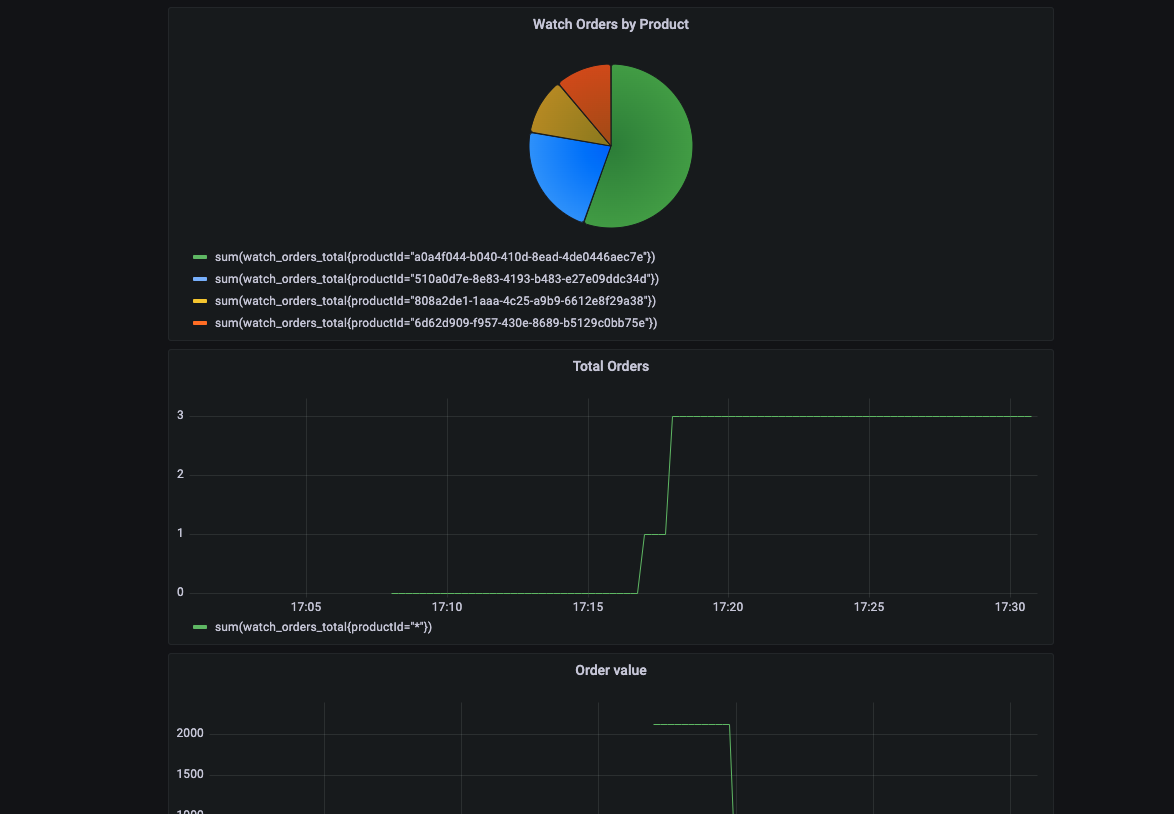
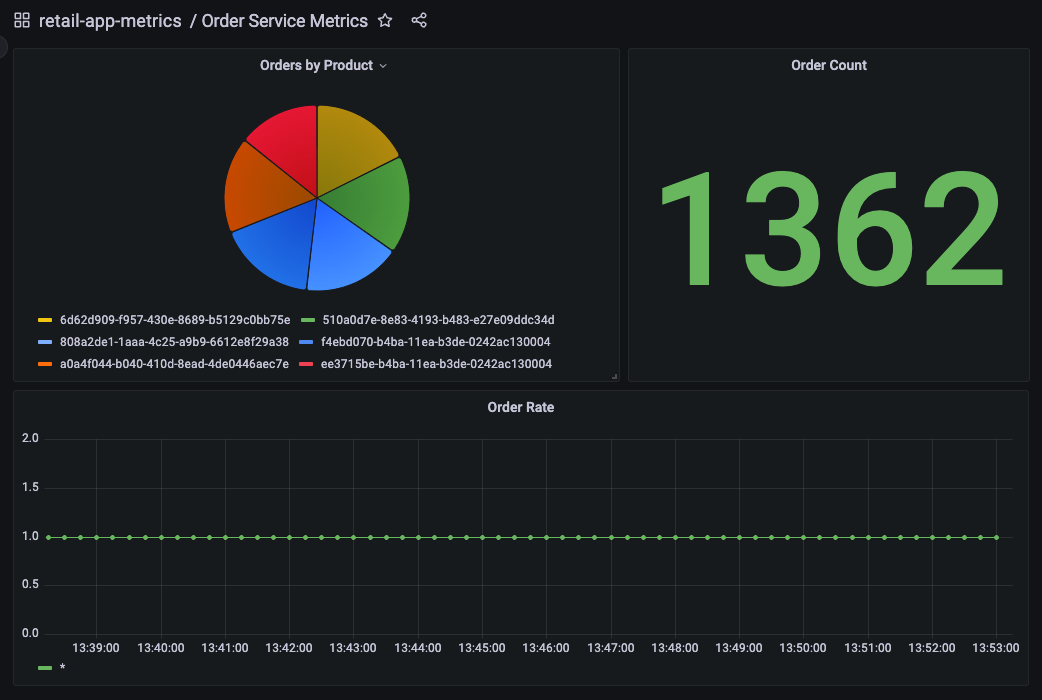
Slight restructure of content, remove order value dashboard

diff --git a/website/docs/observability/open-source-metrics/application-metrics.md b/website/docs/observability/open-source-metrics/application-metrics.md
@@ -3,24 +3,23 @@ title: "Application Metrics"
 sidebar_position: 50
 ---
 
-Application metrics are user defined metrics that help track your application KPIs. These metrics help analyze data and derive insights to meet your business needs. Let's look at some application metrics using AWS Distro for OpenTelemetry and visualize the metrics using Grafana.
+In this section we'll look at gaining insight in to metrics exposed by our workloads. Some examples of these could be:
 
-The application metrics we want to capture and show in the dashboard for the sample application are:
-- number of total orders created
-- most popular watch type order, based on number of each watch type ordered
-- total cost of each order
+* System metrics such as Java heap metrics or database connection pool status
+* Application metrics related to business KPIs
 
-The "retail-store-sample-app" has already been instrumented to capture the above mentioned metrics. The OrderMetrics class uses Spring Boot [Micrometer](https://spring.io/blog/2018/03/16/micrometer-spring-boot-2-s-new-application-metrics-collector) a metrics collection facade which collects metrics data from the application with a vendor neutral API. In the sample application we use [AWS Distro for OpenTelemetry (ADOT Collector)](https://aws-otel.github.io/) to instrument, generate, collect and export telemetry data (logs, traces and metrics). The OpenTelemetry Collector offers a vendor-agnostic implementation of how to receive, process and export telemetry data. It removes the need to run, operate, and maintain multiple agents/collectors.
+Let's look at how to ingest application metrics using AWS Distro for OpenTelemetry and visualize the metrics using Grafana.
 
-Take a look at the OpenTelementy collector configuration using below command. You will notice two main components - Receivers and Exporters
+Each of the components in this workshop have been instrumented to provide Prometheus metrics using libraries relevant to the particular programming language or framework. We can look at an example of these metrics from the orders service like so:
+
 ```bash
-$ kubectl -n other get opentelemetrycollector adot -o jsonpath='{.spec.config}'
-```
-
-**Receivers** - scrape metrics from targets that expose a Prometheus endpoint. Prometheus uses a pull based system to pull the application metrics exposed via an HTTP endoint at regular intervals. The retail-store-sample-app microservice exposes an endpoint **/actuator/prometheus** which is scarped to retrieve the application metrics. Each of the sample microservices expose a Prometheus endpoint making this a consistent metrics implementation.
-Use the curl command below to look at the application metrics for **watch_orders** that are exposed through the Prometheus endpoint.
-```bash
-$ kubectl -n orders exec $(kubectl -n orders get pods -o name) -- curl http://localhost:8080/actuator/prometheus | grep "watch_orders"
+$ kubectl -n orders exec deployment/orders -- curl http://localhost:8080/actuator/prometheus
+[...]
+# HELP jdbc_connections_idle Number of established but idle connections.
+# TYPE jdbc_connections_idle gauge
+jdbc_connections_idle{name="reader",} 10.0
+jdbc_connections_idle{name="writer",} 10.0
+[...]
 # HELP watch_orders_total The number of orders placed
 # TYPE watch_orders_total counter
 watch_orders_total{productId="510a0d7e-8e83-4193-b483-e27e09ddc34d",} 2.0
@@ -28,14 +27,80 @@ watch_orders_total{productId="808a2de1-1aaa-4c25-a9b9-6612e8f29a38",} 1.0
 watch_orders_total{productId="*",} 3.0
 watch_orders_total{productId="6d62d909-f957-430e-8689-b5129c0bb75e",} 1.0
 ```
-**Exporters** - send these application metrics to a Prometheus remote write endpoint which in our case is Amazon Managaed Prometheus.
 
-We will use Amazon Managed Grafana to visualize these application metrics collected in AMP. AMG has built-in support for Prometheus as datasource. Each datasource in Grafana has its query language to query the metrics data. [PromQL](https://prometheus.io/docs/prometheus/latest/querying/basics/) is the query language for Prometheus. Using the metrics key - 'watch_order_total' and the Query builder, we will build a query for retail-store-sample-app application to get the count of all orders of a certain productId as shown below![PromQL](./assets/query.png)
+The output from this command is verbose so the example above has been pruned to show:
 
-Now that we understand how the application metrics are generated, captured, and visualized, we will drive some traffic to see this in action. Use the below script to run load-generator to place watch orders to capture the application metrics.
+* System metric - How many JDBC connections are idle
+* Application metric - How many orders have been placed through the retail store
 
-```kubectl wait --for=condition=Ready --timeout=180s pods \
-cat <<'EOF' | kubectl apply -f -
+You can execute similar requests to other components, for example the checkout service:
+
+```bash
+$ kubectl -n checkout exec deployment/checkout -- curl http://localhost:8080/metrics
+[...]
+# HELP nodejs_heap_size_total_bytes Process heap size from Node.js in bytes.
+# TYPE nodejs_heap_size_total_bytes gauge
+nodejs_heap_size_total_bytes 48668672
+[...]
+```
+
+In this lab we'll leverage ADOT to ingest the metrics for all the components and explore a dashboard to show the number of orders that have been placed. Let's take a look at the OpenTelemetry configuration used to scrape metrics from the application pods, specifically this section:
+
+```bash
+$ kubectl -n other get opentelemetrycollector adot -o jsonpath='{.spec.config}' \
+  | yq '.receivers.prometheus.config.scrape_configs[2]'
+job_name: 'kubernetes-pods'
+honor_labels: true
+kubernetes_sd_configs:
+  - role: pod
+relabel_configs:
+  - source_labels: [__meta_kubernetes_pod_annotation_prometheus_io_scrape]
+    action: keep
+    regex: true
+  - source_labels: [__meta_kubernetes_pod_annotation_prometheus_io_scrape_slow]
+    action: drop
+    regex: true
+  - source_labels: [__meta_kubernetes_pod_annotation_prometheus_io_scheme]
+    action: replace
+    regex: (https?)
+    target_label: __scheme__
+  - source_labels: [__meta_kubernetes_pod_annotation_prometheus_io_path]
+    action: replace
+    target_label: __metrics_path__
+    regex: (.+)
+  - action: labelmap
+    regex: __meta_kubernetes_pod_annotation_prometheus_io_param_(.+)
+    replacement: __param_$1
+  - action: labelmap
+    regex: __meta_kubernetes_pod_label_(.+)
+  - source_labels: [__meta_kubernetes_namespace]
+    action: replace
+    target_label: namespace
+  - source_labels: [__meta_kubernetes_pod_name]
+    action: replace
+    target_label: pod
+  - source_labels: [__meta_kubernetes_pod_phase]
+    regex: Pending|Succeeded|Failed|Completed
+    action: drop
+```
+
+This configuration leverages the Prometheus [Kubernetes service discovery](https://prometheus.io/docs/prometheus/latest/configuration/configuration/#kubernetes_sd_config) mechanism to automatically discover all pods with specific annotations. This particular configuration will discover any pods with the annotation `prometheus.io/scrape`, and will enrich metrics it scrapes with Kubernetes metadata such as the namespace and pod name.
+
+We can check the annotations on the order component pods:
+
+```bash
+$ kubectl get -o yaml -n orders deployment/orders | yq '.spec.template.metadata.annotations'
+prometheus.io/path: /actuator/prometheus
+prometheus.io/port: "8080"
+prometheus.io/scrape: "true"
+```
+
+As we saw in the section regarding cluster metrics, these pod metrics will also be sent to AMP using the same OpenTelemetry exporter.
+
+Next use the below script to run a load generator which will place orders through the store and generate application metrics:
+
+```bash
+$ cat <<EOF | kubectl apply -f -
 apiVersion: v1
 kind: Pod
 metadata:
@@ -70,26 +135,38 @@ spec:
 EOF
 ```
 
-Open the Grafana dashboard![Grafana dashboard](./assets/order-service-metrics-dashboard.png)
+Open the Grafana as we did in the previous section:
 
-Go to the dashboard section and click on the dashboard **Order Service Metrics** and let's review the panels wintin the dashboard.
+![Grafana dashboard](./assets/order-service-metrics-dashboard.png)
 
-The dashboard displays the panels that represent all the metrics we outlined![Business Metrics](./assets/retailMetrics.png)
+Go to the dashboard page and click on the dashboard **Order Service Metrics** to review the panels within the dashboard:
 
-You can view / edit each panel to look more closely at the metrics.
+![Business Metrics](./assets/retailMetrics.png)
 
-This panel displays the toal number of orders placed by the user in the given time range.
-![Total Orders Placed](./assets/totalOrders.png)
+We can see how the dashboard was configured to query AMP by hovering over the title of the "Orders by Product" panel and clicking the "Edit" button:
 
-This panel displays the number of each watch type ordered, displayed as a pie chart.
-![Most Popular Watch Ordered](./assets/watchCount.png)
+![Edit Panel](./assets/editPanel.png)
 
-This panel displays the toal price of the order in the given time range.
-![Total Order Price](./assets/totalOrderPrice.png)
+The PromQL query used to create this panel is displayed at the bottom of the page:
 
-Once you're satisfied with observing metrics, you can stop the load generator using the below command.
+![PromQL query](./assets/promqlQuery.png)
+
+In this case we are using the query:
+
+```
+sum by(productId) (watch_orders_total{productId!="*"})
+```
+
+Which is doing the following:
+
+* Query for the metric `watch_orders_total`
+* Ignore metrics with a `productId` value of `*`
+* Sum these metrics and group them by `productId`
+
+You can similarly explore the other panels to understand how they have been created.
+
+Once you're satisfied with observing the metrics, you can stop the load generator using the below command.
 
 ```bash timeout=180
 $ kubectl delete pod load-generator -n other
 ```
-
